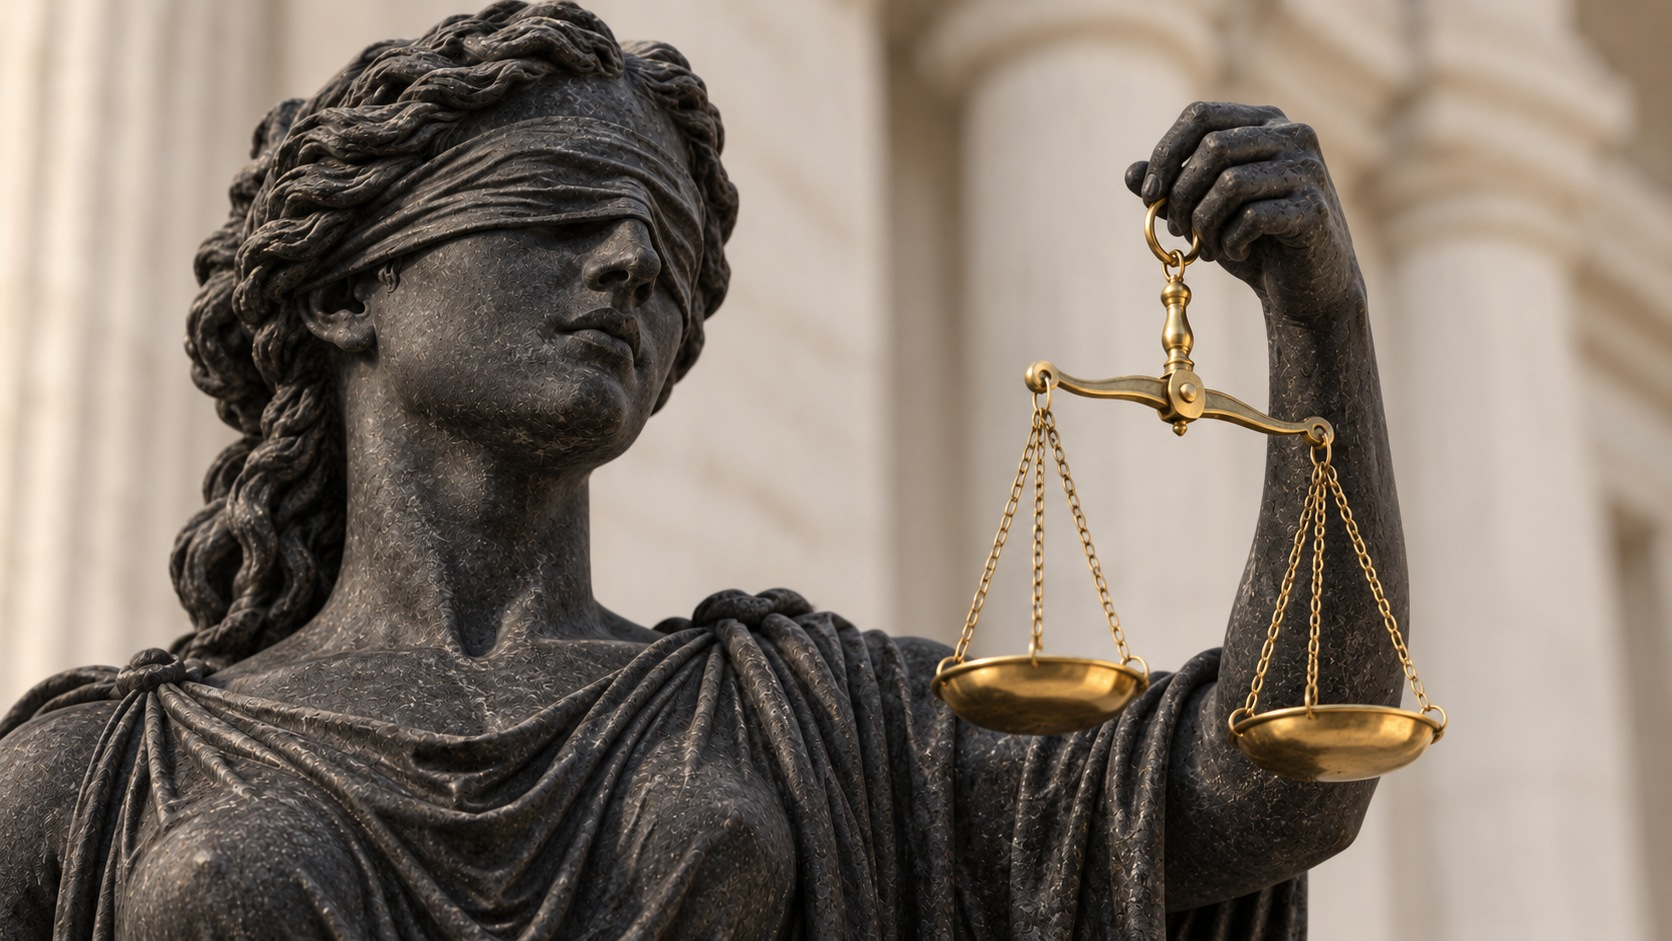
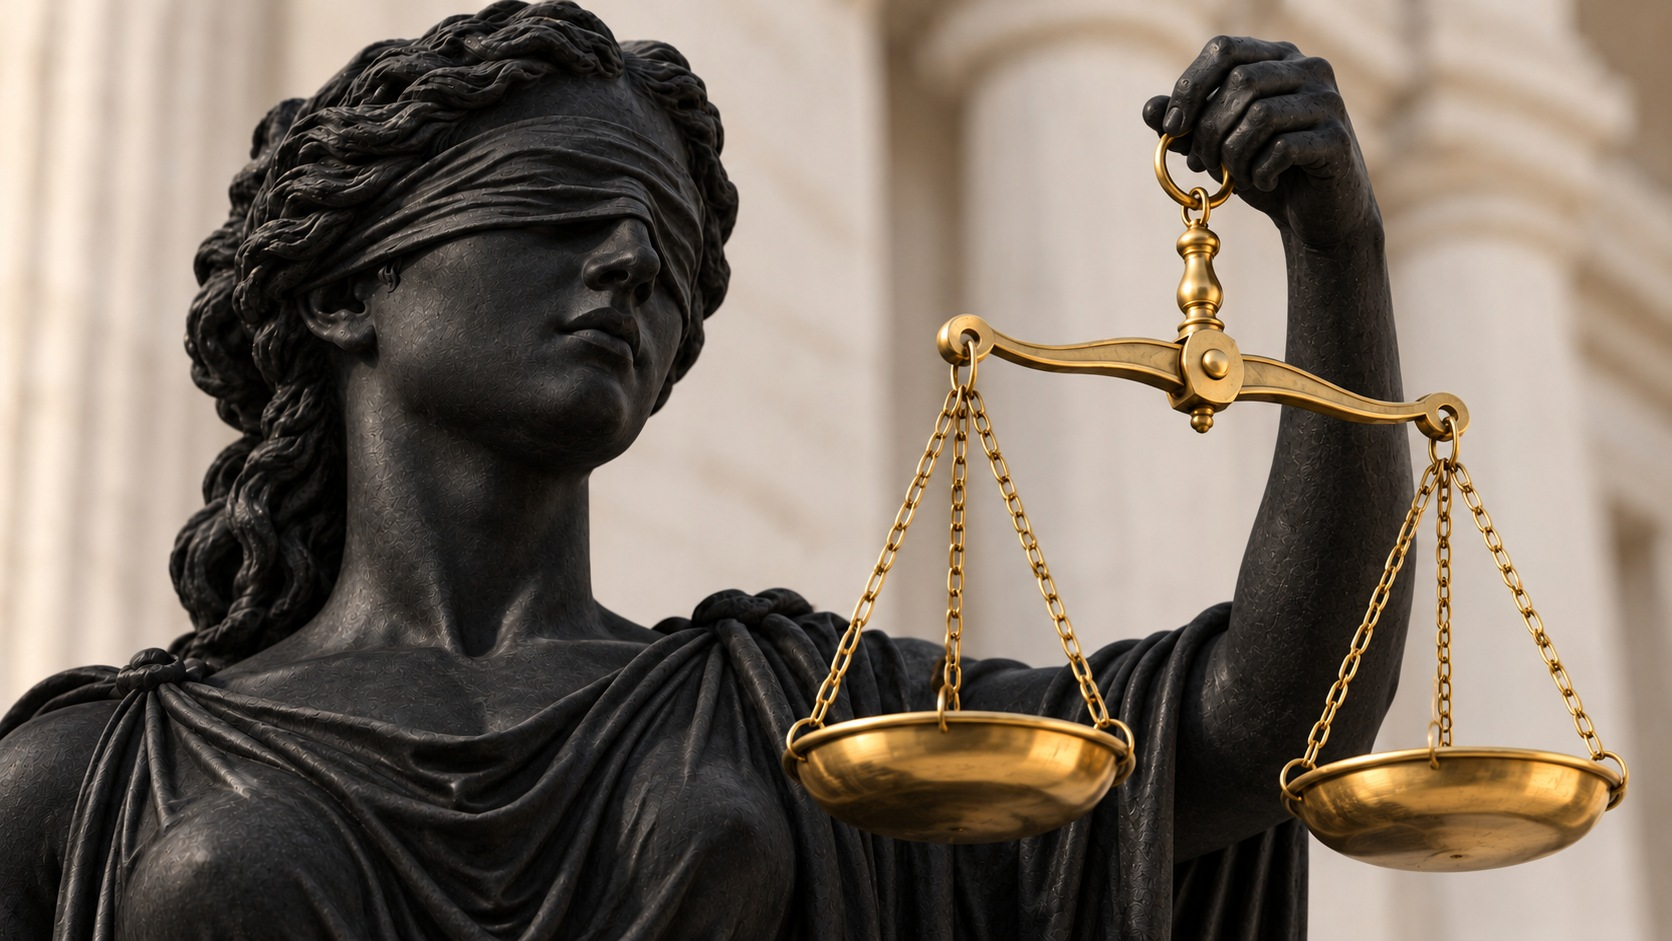
Enlarge brass scales and deepen Lady Justice stone to black

diff --git a/Root/HTML/Component/Philosophy/Law/index.php b/Root/HTML/Component/Philosophy/Law/index.php
@@ -1,5 +1,5 @@
 <div id='message'>
-	<?php $alt='Close-up of a blindfolded Lady Justice statue carved in fine-textured black stone against a light background, holding naturally proportioned shiny brass scales at a three-quarter angle. AI-generated illustration.'; require('../HTML/Fragment/Component_cover.php') ?>
+	<?php $alt='Close-up of a blindfolded Lady Justice statue carved in pitch-black stone against a light background, holding large polished brass balance scales suspended naturally at a three-quarter angle. AI-generated illustration.'; require('../HTML/Fragment/Component_cover.php') ?>
 	<h2 class='center'><?php echo $desc; ?></h2>
 		<style>#title-container{min-width:0}#title{white-space:normal}#message>table{display:block;max-width:100%;overflow-x:auto}</style>
 	<h3>What is a law?</h3>
